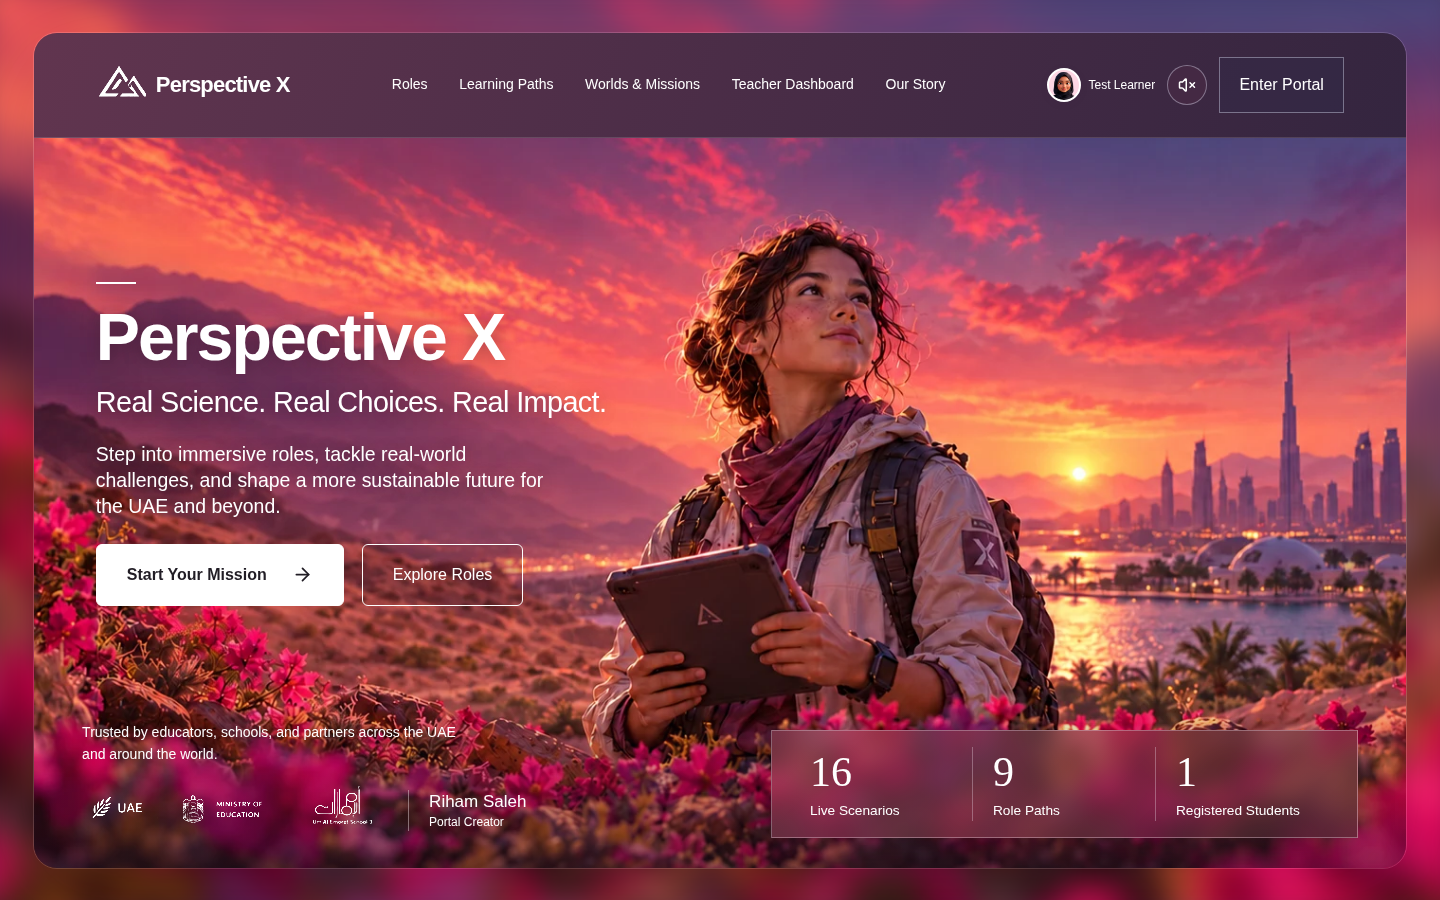
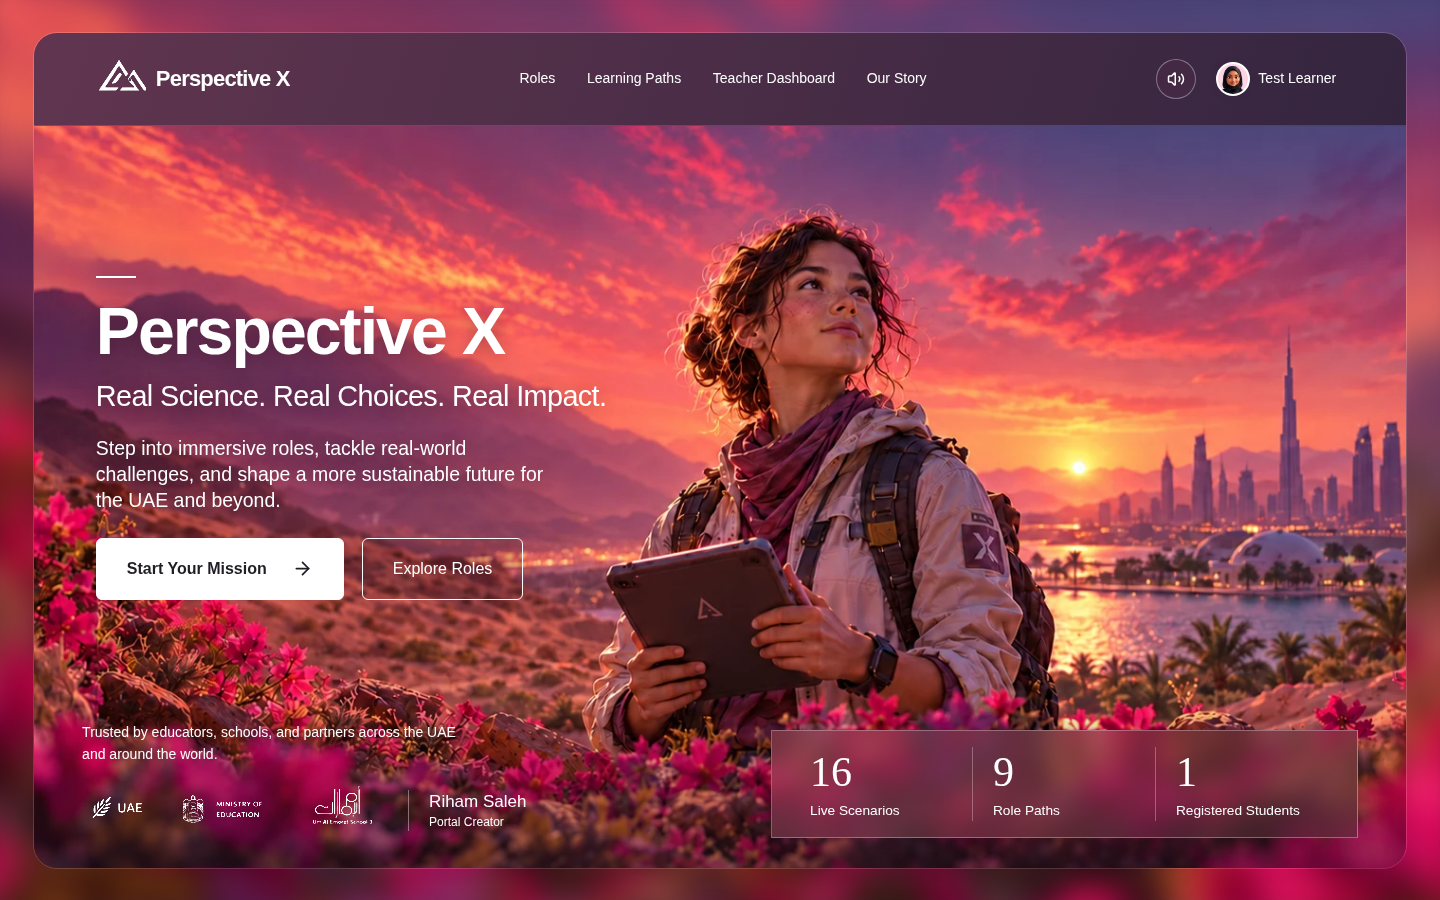
Simplify homepage navigation and show the visitor account

Changed region(s): [[0.0, 0.0622, 1.0, 0.9644], [0.6562, 0.9333, 0.6875, 0.9644], [0.0, 0.8089, 0.0312, 0.84]]

diff --git a/tests/approved-ui.spec.js b/tests/approved-ui.spec.js
@@ -398,7 +398,7 @@ test("loading interior CSS leaves homepage computed styles unchanged", async ({
   await page.setViewportSize({ width: 1440, height: 900 });
   await page.goto("/");
   // Streaming music can keep the network active; wait for the actual UI and fonts.
-  await expect(page.getByRole("button", { name: "Enter Portal", exact: true })).toBeEnabled();
+  await expect(page.getByRole("link", { name: "Sign In", exact: true })).toBeVisible();
   await page.evaluate(() => document.fonts.ready);
   const readStyles = () =>
     [
@@ -433,7 +433,7 @@ test("loading interior CSS leaves homepage computed styles unchanged", async ({
     page.getByRole("heading", { name: /Welcome back/ }),
   ).toBeVisible();
   await page.getByRole("link", { name: "Home", exact: true }).click();
-  await expect(page.getByRole("button", { name: "Enter Portal", exact: true })).toBeEnabled();
+  await expect(page.getByRole("link", { name: "Sign In", exact: true })).toBeVisible();
   await page.evaluate(() => document.fonts.ready);
   const after = await page.evaluate(readStyles);
   expect(after).toEqual(before);
@@ -450,6 +450,11 @@ test('cinematic homepage uses interactive reference layout and guest portal rout
   await expect(page.locator('.home-slogan')).toHaveText('Real Science. Real Choices. Real Impact.');
   await expect(page.locator('.home-stats')).toContainText('Registered Students');
   await expect(page.getByRole('img', { name: 'Ministry of Education', exact: true })).toBeVisible();
+  await expect(page.getByText('Worlds & Missions', { exact: true })).toHaveCount(0);
+  await expect(page.getByText('Enter Portal', { exact: true })).toHaveCount(0);
+  await page.getByRole('link', { name: 'Sign In', exact: true }).click();
+  await expect(page).toHaveURL(/\/SignIn$/);
+  await page.goto('/');
   await page.getByRole('link', { name: 'Explore Roles', exact: true }).click();
   await expect(page).toHaveURL(/\/SignIn$/);
   await page.goto('/');
@@ -457,13 +462,17 @@ test('cinematic homepage uses interactive reference layout and guest portal rout
   await expect(page).toHaveURL(/\/SignIn$/);
 });
 
-for (const teacher of [false, true]) test(`homepage Enter Portal routes authenticated ${teacher ? 'teacher' : 'student'} with own identity`, async ({ page }) => {
+for (const teacher of [false, true]) test(`homepage account routes authenticated ${teacher ? 'teacher' : 'student'} with own identity`, async ({ page }) => {
   await setup(page, { teacher });
   await page.goto('/');
   await expect(page.locator('.home-profile')).toContainText(teacher ? 'Test Teacher' : 'Test Learner');
   await expect(page.locator('.home-profile .px-avatar')).toBeVisible();
   await expect(page.locator('.home-account')).not.toContainText('Riham Saleh');
-  await page.getByRole('button', { name: 'Enter Portal', exact: true }).first().click();
+  await expect(page.locator('.home-profile')).toHaveCount(1);
+  await expect(page.getByText('Worlds & Missions', { exact: true })).toHaveCount(0);
+  await expect(page.getByText('Enter Portal', { exact: true })).toHaveCount(0);
+  await expect(page.locator('.home-account > :last-child')).toHaveClass('home-profile');
+  await page.locator('.home-profile').click();
   await expect(page).toHaveURL(teacher ? /\/TeacherDashboard$/ : /\/Dashboard$/);
 });
 

diff --git a/src/components/landing/homepage.css b/src/components/landing/homepage.css
@@ -15,10 +15,12 @@
 .px-home .home-nav nav :is(a,button) { font-size: 14px; white-space: nowrap; }
 .px-home .home-nav nav button { padding: 0; border: 0; background: transparent; color: inherit; }
 .px-home .home-nav nav :is(a,button):hover { text-decoration: underline; text-underline-offset: 6px; }
-.px-home .home-account { display: flex; align-items: center; gap: 12px; }
-.px-home .home-enter { min-width: 125px; padding: 15px 12px; color: #fff; border: 1px solid #e4e5fa66; background: #28355728; }
-.px-home .home-profile { display: flex; align-items: center; gap: 7px; font-size: 12px; max-width: 155px; }
-.px-home .home-profile > span:last-child { max-width: 100px; overflow: hidden; text-overflow: ellipsis; white-space: nowrap; }
+.px-home .home-account { display: flex; align-items: center; gap: 12px; min-width: 0; }
+.px-home .home-sign-in { padding: 12px 18px; border: 1px solid #e4e5fa66; background: #28355728; white-space: nowrap; }
+.px-home .home-account-loading { font-size: 12px; }
+.px-home .home-profile { display: flex; align-items: center; gap: 8px; min-width: 0; max-width: 200px; min-height: 44px; padding: 4px 8px; font-size: 14px; border-radius: 24px; }
+.px-home .home-profile:hover { background: #ffffff12; }
+.px-home .home-profile-name { min-width: 0; overflow: hidden; text-overflow: ellipsis; white-space: nowrap; }
 .px-home .px-avatar { display: inline-flex; flex-shrink: 0; align-items: center; justify-content: center; border-radius: 50%; overflow: hidden; background: #93516e; color: #fff; }
 .px-home .px-avatar img { width: 100%; height: 100%; object-fit: cover; }
 .px-home .px-avatar-preset { background-image: url('/images/perspective/avatar-atlas.webp'); background-size: 500% 200%; }
@@ -80,11 +82,10 @@
   .px-home .home-nav { padding: 12px; gap: 10px; }
   .px-home .home-brand { font-size: 17px; gap: 6px; }
   .px-home .home-logo { width: 30px; height: 28px; }
-  .px-home .home-enter { min-width: 90px; font-size: 11px; padding: 10px; }
+  .px-home .home-sign-in { font-size: 11px; padding: 10px; }
   .px-home .home-nav nav { flex-wrap: wrap; gap: 10px 16px; }
   .px-home .home-nav nav :is(a,button) { font-size: 10px; }
-  .px-home .home-profile { max-width: 100px; }
-  .px-home .home-profile > span:last-child { display: none; }
+  .px-home .home-profile { max-width: 110px; gap: 6px; padding: 4px; font-size: 11px; }
   .px-home .home-account { gap: 7px; }
   .px-home .home-hero { padding: 12px 16px; }
   .px-home .home-title-rule { margin-bottom: 12px; }

diff --git a/tests/homepage-account.spec.js b/tests/homepage-account.spec.js
@@ -1,0 +1,46 @@
+import { test, expect } from '@playwright/test';
+import { setup, noOverflow } from './support/fixtures';
+
+for (const teacher of [false, true]) {
+  test(`homepage keeps a long ${teacher ? 'teacher' : 'student'} name and avatar accessible at every size`, async ({ page }) => {
+    const name = 'Synthetic Visitor With A Very Long Full Name';
+    await page.addInitScript(() => localStorage.setItem('px-home-music-muted', 'true'));
+    await setup(page, { teacher });
+    await page.route('**/rest/v1/profiles?*', route => {
+      if (route.request().method() === 'HEAD') return route.fallback();
+      return route.fulfill({
+        contentType: 'application/json',
+        body: JSON.stringify({
+          id: '00000000-0000-4000-8000-000000000001',
+          full_name: name,
+          role: teacher ? 'teacher' : 'student',
+        }),
+      });
+    });
+    await page.goto('/');
+    const account = page.getByRole('link', { name: `${name} — Open your dashboard`, exact: true });
+    await expect(account).toBeVisible();
+    await expect(account).toHaveAttribute('href', teacher ? '/TeacherDashboard' : '/Dashboard');
+    await expect(account).toHaveAttribute('title', name);
+    await expect(page.getByRole('img', { name: `${name} avatar`, exact: true })).toBeVisible();
+    await expect(page.locator('.home-profile')).toHaveCount(1);
+    await expect(page.getByText('Enter Portal', { exact: true })).toHaveCount(0);
+    await expect(page.getByText('Worlds & Missions', { exact: true })).toHaveCount(0);
+    for (const [width, height] of [[1440, 900], [768, 1024], [375, 667], [354, 740]]) {
+      await page.setViewportSize({ width, height });
+      await noOverflow(page);
+      const label = page.locator('.home-profile-name');
+      await expect(label).toBeVisible();
+      await expect(label).toHaveText(name);
+      const textBox = await label.boundingBox();
+      expect(textBox.width).toBeGreaterThan(20);
+      const avatarBox = await page.locator('.home-profile .px-avatar').boundingBox();
+      expect(avatarBox.width).toBe(34);
+      const box = await account.boundingBox();
+      const header = await page.locator('.home-nav').boundingBox();
+      expect(box.x + box.width).toBeLessThanOrEqual(header.x + header.width);
+      expect(box.y + box.height).toBeLessThanOrEqual(header.y + header.height);
+      await page.screenshot({ path: `test-results/homepage-account/${teacher ? 'teacher' : 'student'}-${width}.png` });
+    }
+  });
+}

diff --git a/src/pages/Home.jsx b/src/pages/Home.jsx
@@ -90,14 +90,12 @@ export default function Home() {
       subscription.unsubscribe();
     };
   }, []);
-  const enterPortal = () =>
-    navigate(
-      !account.user
-        ? "/SignIn"
-        : account.profile?.role === "teacher"
-          ? "/TeacherDashboard"
-          : "/Dashboard",
-    );
+  const portalPath = !account.user
+    ? "/SignIn"
+    : account.profile?.role === "teacher"
+      ? "/TeacherDashboard"
+      : "/Dashboard";
+  const enterPortal = () => navigate(portalPath);
   const name =
     account.profile?.full_name ||
     account.user?.user_metadata?.full_name ||
@@ -143,30 +141,31 @@ export default function Home() {
             <nav aria-label="Main navigation">
               <Link to="/Roles">Roles</Link>
               <Link to="/LearningPath">Learning Paths</Link>
-              <Link to="/Roles">Worlds &amp; Missions</Link>
               <Link to="/TeacherDashboard">Teacher Dashboard</Link>
               <button type="button" onClick={() => storyDialog.current.showModal()}>Our Story</button>
             </nav>
             <div className="home-account">
-              {account.user && (
-                <Link to="/ProfileSettings" className="home-profile">
+              <HomepageSoundtrack />
+              {account.loading ? (
+                <span className="home-account-loading" role="status">Loading…</span>
+              ) : account.user ? (
+                <Link
+                  to={portalPath}
+                  className="home-profile"
+                  aria-label={`${name} — Open your dashboard`}
+                  title={name}
+                >
                   <Avatar
                     user={account.user}
                     profile={account.profile}
                     name={name}
                     size={34}
                   />
-                  <span>{name}</span>
+                  <span className="home-profile-name">{name}</span>
                 </Link>
+              ) : (
+                <Link className="home-sign-in" to="/SignIn">Sign In</Link>
               )}
-              <HomepageSoundtrack />
-              <button
-                className="home-enter"
-                disabled={account.loading}
-                onClick={enterPortal}
-              >
-                {account.loading ? "Loading…" : "Enter Portal"}
-              </button>
             </div>
           </header>
           <div className="home-scene">

diff --git a/tests/homepage-soundtrack-playback.spec.js b/tests/homepage-soundtrack-playback.spec.js
@@ -67,10 +67,10 @@ test("real exclusive locks prevent simultaneous playback across two tabs and pro
   await observe(page); await page.goto("/");
   await expect(control(page)).toHaveAttribute("aria-pressed", "true");
   const second = await context.newPage(); await observe(second); await second.goto("/");
-  await expect(second.getByRole("status")).toContainText("another tab");
+  await expect(second.locator("#home-music-status")).toContainText("another tab");
   expect((await audioState(second)).attempts).toBe(0);
   await control(second).click();
-  await expect(second.getByRole("status")).toContainText("another tab");
+  await expect(second.locator("#home-music-status")).toContainText("another tab");
   expect((await audioState(second)).paused).toBe(true);
   expect((await audioState(page)).paused).toBe(false);
   await control(page).click();
@@ -115,7 +115,7 @@ test("pending playback cancellation cannot leak across navigation or release own
   await expect(page).toHaveURL(/\/Roles$/);
   expect((await audioState(page)).paused).toBe(true);
   const second = await context.newPage(); await observe(second); await second.goto("/");
-  await expect(second.getByRole("status")).toContainText("another tab");
+  await expect(second.locator("#home-music-status")).toContainText("another tab");
   await page.evaluate(() => window.settleHomePlay());
   await control(second).click();
   await expect(control(second)).toHaveAttribute("aria-pressed", "true");

diff --git a/tests/homepage-soundtrack.spec.js b/tests/homepage-soundtrack.spec.js
@@ -4,7 +4,7 @@ test.use({ launchOptions: launch("document-user-activation-required") });
 
 test("blocked autoplay retries on a permitted homepage interaction and manual mute survives reload", async ({ page }) => {
   await observe(page, { blockUntilGesture: true }); await page.goto("/");
-  await expect(page.getByRole("status")).toContainText("interact with the homepage");
+  await expect(page.locator("#home-music-status")).toContainText("interact with the homepage");
   expect((await audioState(page)).attempts).toBe(1);
   expect(await page.evaluate(() => window.homeAudio[0].playRequests[0])).toEqual({ volume: 0.15, muted: false });
   await expect(control(page)).toHaveAttribute("aria-pressed", "false");
@@ -32,7 +32,7 @@ test("unsupported media and missing tab coordination fail truthfully", async ({ 
     await page.goto("/");
     await expect(control(page)).toBeDisabled();
     await expect(control(page)).toHaveAttribute("aria-pressed", "false");
-    await expect(page.getByRole("status")).toContainText("unavailable");
+    await expect(page.locator("#home-music-status")).toContainText("unavailable");
     expect((await audioState(page)).paused).toBe(true);
     await context.close();
   }

diff --git a/docs/homepage-music/README.md b/docs/homepage-music/README.md
@@ -1,4 +1,4 @@
-# Homepage soundtrack review
+# Homepage soundtrack and account navigation review
 
 Baseline: latest main, `61b1e0c7a0d9483178126a999efaca896a0bd107`.
 Branch: `feat/homepage-soundtrack`. The separate Our Story PR #11 is not included or merged by this work.
@@ -19,16 +19,25 @@ The current user request supersedes the older ZIP's initially-off and 18% recomm
 
 ## Files
 
-- `src/pages/Home.jsx`: import and mount one control before Enter Portal.
+- `src/pages/Home.jsx`: mount one music control, remove Worlds & Missions, and replace Enter Portal with the signed-in visitor's own name/avatar account link.
+- `src/components/landing/homepage.css`: homepage-only account sizing, including visible mobile names with ellipsis for long names.
 - `src/components/landing/HomepageSoundtrack.jsx`: ownership, lifecycle and playback.
 - `src/components/landing/homepage-soundtrack.css`: homepage-scoped icon control and accessible status.
 - `public/audio/homepage/hopeful-cinematic-journey.mp3`: exact original downloaded asset, not re-encoded.
 - `docs/homepage-music-license.md`, retrieval metadata and license excerpt: creator/source/licensing record.
 - `tests/homepage-soundtrack*.spec.js`, `tests/support/homepageAudio.js`: playback coverage.
-- `tests/approved-ui.spec.js`: existing style comparison waits for UI/font readiness and uses a manual mute preference to keep dynamic music status deterministic; its style assertions remain intact.
+- `tests/approved-ui.spec.js`: guest sign-in and teacher/student account routing, plus the existing homepage style comparison.
+- `tests/homepage-account.spec.js`: both roles' long names, selected avatars, accessible full names and header fit at desktop/tablet/mobile sizes.
+
+## Account navigation update
+
+Worlds & Missions and Enter Portal are removed for guests, teachers and students. One name/avatar link occupies the rightmost account position formerly occupied by Enter Portal and opens the user's appropriate dashboard. The existing Avatar component resolves the visitor's selected picture; no creator identity or fixed mockup avatar is substituted. Signed-out visitors retain a Sign In link. Start Your Mission keeps its existing authentication and dashboard routing.
+
+Mobile names remain visible, with ellipsis when needed and a full accessible name/title. The approved header margin, blurred outer background, artwork and compact statistics are preserved. The music component and all internal pages are unchanged by this follow-up.
 
 ## Verification
 
+- Account-header follow-up: build, lint and typecheck passed; all 27 relevant production-build browser checks passed. These cover guest sign-in, both roles' account/dashboard routing, long-name/avatar fit down to 354px, ten complete viewport sizes, homepage style isolation and all nine soundtrack checks. Music-status test selectors were scoped to the music component after the new account loading status exposed an ambiguous selector; playback code is unchanged.
 - `npm run build`, `npm run lint`, `npm run typecheck`: passed, no lint failures.
 - `npm run test:unit`: 9 passed.
 - Initial full `npm run test:ui`: 82 passed, one old style-only test timed out waiting for network idle after audio was introduced. The readiness assumption was corrected and the affected test passed on rerun.
@@ -39,7 +48,7 @@ The current user request supersedes the older ZIP's initially-off and 18% recomm
 - Unsupported media, an actual missing-asset response, rapid toggles, preference persistence, late startup cancellation and immediate navigation reset were checked.
 - Desktop/tablet/mobile screenshots reviewed at 1440 × 900, 768 × 1024 and 390 × 844.
 
-Physical-device listening quality, native mobile-browser autoplay behavior and authenticated live Supabase QA remain unverified. Preview listening is the requested review step. The homepage artwork, original typography and layout, existing Our Story implementation on main, dashboards, sign-in, scientific assessments and mission media remain unchanged apart from the discreet new speaker control.
+Physical-device listening quality, native mobile-browser autoplay behavior and authenticated live Supabase QA remain unverified. Preview listening is the requested review step. The homepage artwork, original hero typography and layout, existing Our Story implementation on main, dashboards, sign-in, scientific assessments and mission media remain unchanged. Header changes consist of the discreet music control and the requested account/navigation update.
 
 ## Screenshots from the compiled app
 
